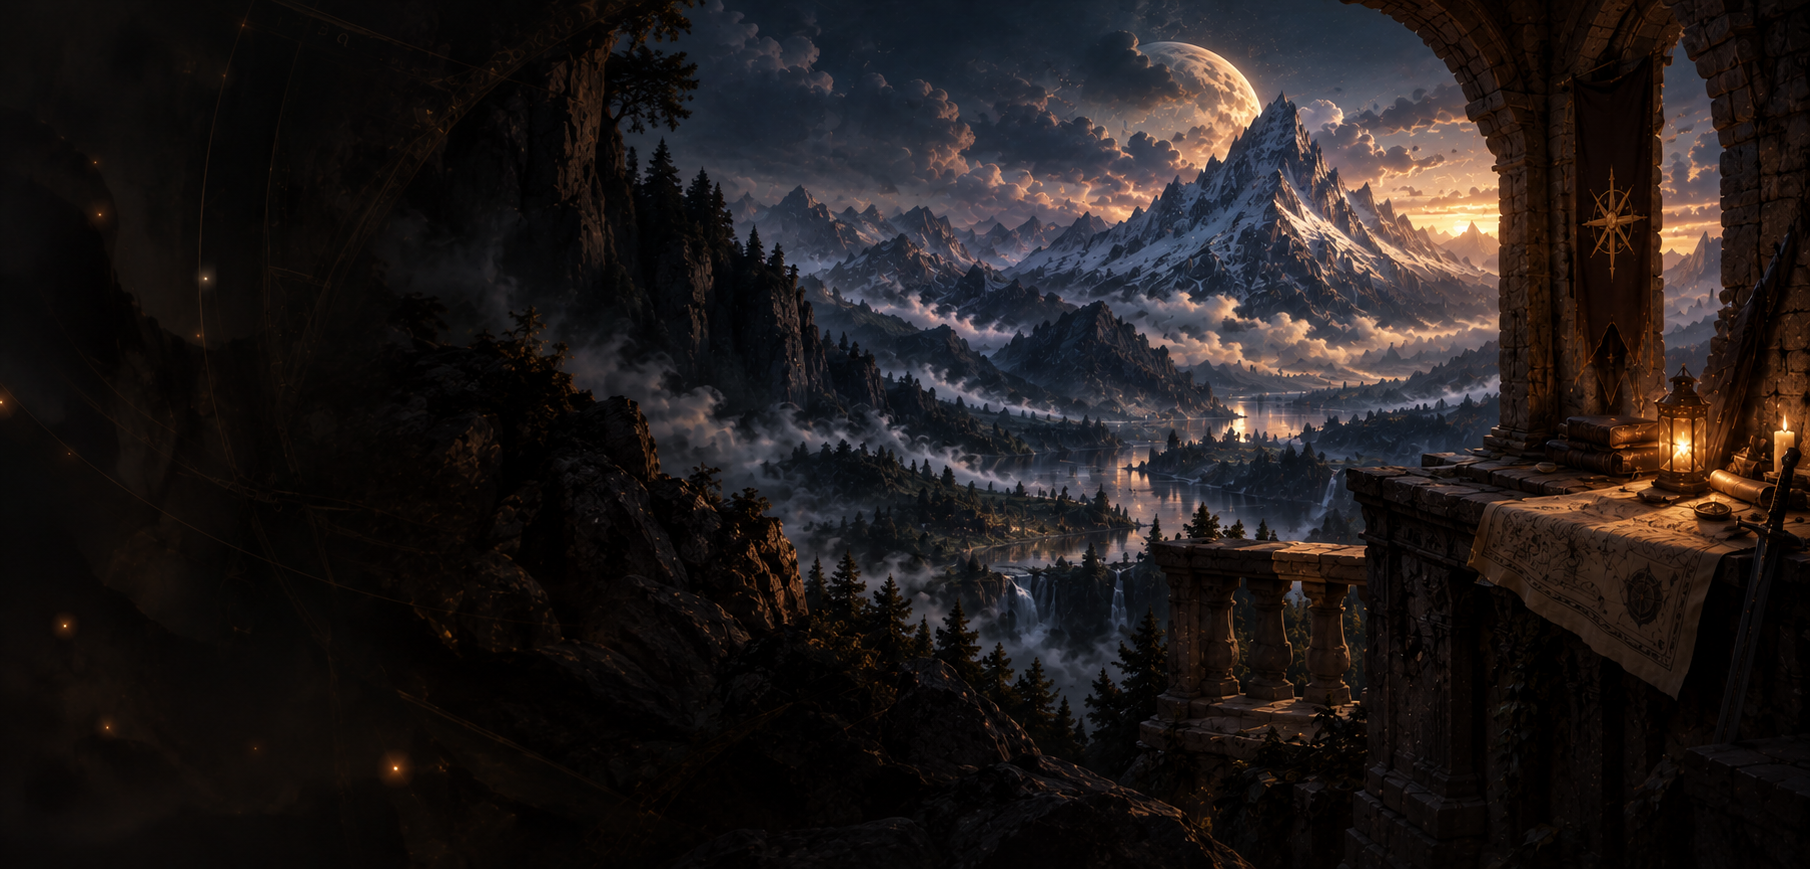
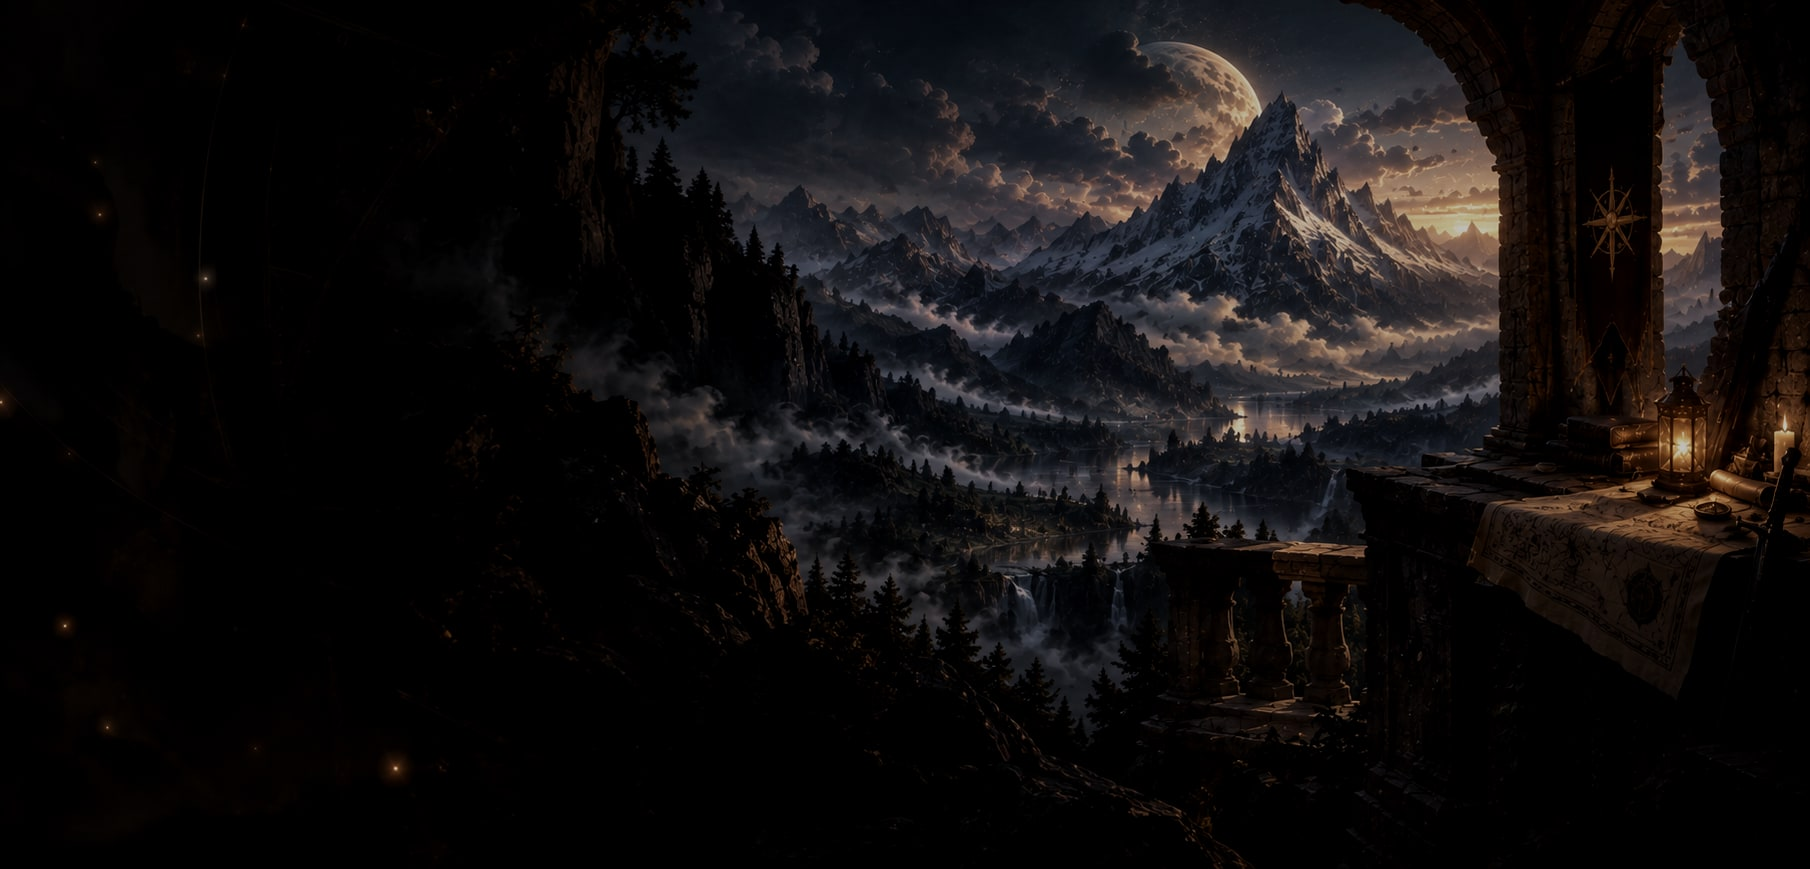
Description des modifications

diff --git a/index.html b/index.html
@@ -48,17 +48,17 @@
     <div class="kicker"><span class="num">✦</span>Catégories</div>
     <h2 class="title" style="margin-bottom:1.2em;">Explorer le Codex </h2>
     <div class="hub-grid">
-      <a class="cat-tile ready" href="categories/Pouvoirs.html" style="--img:url('img/titles/pouvoirs.jpg');">
+      <a class="cat-tile ready" href="categories/Pouvoirs.html" style="--img:url('img/titles/pouvoirs.jpg'); --tile-color:#d9b354;">
         <span class="icon">✨</span><span class="name">Pouvoirs</span><span class="status">Explorer →</span>
       </a>
-      <a class="cat-tile ready" href="categories/Combat.html" style="--img:url('img/titles/combat.jpg');">
+      <a class="cat-tile ready" href="categories/Combat.html" style="--img:url('img/titles/combat.jpg'); --tile-color:#a8b4bd;">
         <span class="icon">⚔</span><span class="name">Combat</span><span class="status">Explorer →</span>
       </a>
-      <a class="cat-tile empty" href="categories/Bestiaire.html" style="--img:url('img/titles/bestiaire.jpg');">
-        <span class="icon">🐺</span><span class="name">Bestiaire</span><span class="status">À venir</span>
+      <a class="cat-tile ready" href="categories/Bestiaire.html" style="--img:url('img/titles/bestiaire.jpg'); --tile-color:#8b98a3;">
+        <span class="icon">🐺</span><span class="name">Bestiaire</span><span class="status">Explorer →</span>
       </a>
-      <a class="cat-tile empty" href="categories/Personnages.html" style="--img:url('img/titles/personnages.jpg');">
-        <span class="icon">🧙</span><span class="name">Personnages</span><span class="status">À venir</span>
+      <a class="cat-tile ready" href="categories/Personnages.html" style="--img:url('img/titles/personnages.jpg'); --tile-color:#9b7cc4;">
+        <span class="icon">🧙</span><span class="name">Personnages</span><span class="status">Explorer →</span>
       </a>
       <a class="cat-tile empty" href="categories/Equipement.html" style="--img:url('img/titles/equipement.jpg');">
         <span class="icon">🎒</span><span class="name">Équipement</span><span class="status">À venir</span>
@@ -81,7 +81,7 @@
       <a class="cat-tile empty" href="categories/Religion.html" style="--img:url('img/titles/religion.jpg');">
         <span class="icon">🕯</span><span class="name">Religion</span><span class="status">À venir</span>
       </a>
-      <a class="cat-tile ready" href="categories/Regles.html" style="--img:url('img/titles/rêgledujdr.jpg');">
+      <a class="cat-tile ready" href="categories/Regles.html" style="--img:url('img/titles/rêgledujdr.jpg'); --tile-color:#c9b285;">
         <span class="icon">📜</span><span class="name">Règles du JDR</span><span class="status">Explorer →</span>
       </a>
     </div>

diff --git a/styles.css b/styles.css
@@ -340,7 +340,6 @@ h3.subtitle{
   background-size:cover;
   background-position:center 30%;
   background-attachment:fixed;
-  filter:saturate(0.78) contrast(1.1) brightness(0.7) sepia(0.06);
   z-index:-2;
 }
 .page-scrim{
@@ -359,9 +358,7 @@ h3.subtitle{
 /* semi-opaque panel so text/tiles stay legible over the photo lower on the page */
 .content-panel{
   position:relative;
-  background:rgba(19,16,16,0.84);
-  backdrop-filter:blur(7px);
-  -webkit-backdrop-filter:blur(7px);
+  background:rgba(19,16,16,0.94);
 }
 
 /* ---------- HERO PHOTO (hub) ---------- */
@@ -482,7 +479,7 @@ h3.subtitle{
   text-shadow:0 1px 5px rgba(0,0,0,0.95), 0 0 10px rgba(0,0,0,0.75);
 }
 .cat-tile.ready:hover .status{ letter-spacing:0.14em; }
-.cat-tile.ready .status{ color:var(--blood); }
+.cat-tile.ready .status{ color:var(--tile-color, var(--frost)); }
 .cat-tile.empty .status{ color:var(--parchment-faint); }
 .cat-tile.ready .name::after{
   content:""; position:absolute; top:10px; right:10px;
@@ -786,8 +783,6 @@ a.pbadge:hover{ border-color:currentColor; }
   --frost:#8fb8c9;
   --frost-dim:#4c6b76;
 }
-.cat-tile.cartes.ready .status{ color:var(--frost); }
-
 /* ---------- CARTES — PAYS DU MONDE ---------- */
 .pays-list{ margin-top:2.8em; }
 .pays-card{
